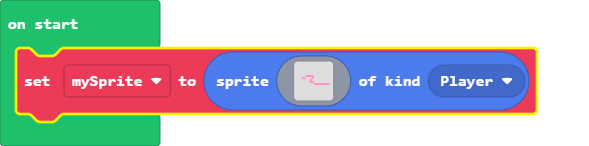
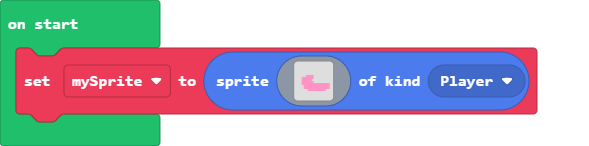
lol

Changed region(s): [[0.0, 0.3014, 0.9168, 0.8493], [0.489, 0.5205, 0.5806, 0.6301], [0.0306, 0.7671, 0.0611, 0.8219]]

diff --git a/main.ts b/main.ts
@@ -5,13 +5,13 @@ let mySprite = sprites.create(img`
     . . . . . . . . . . . . . . . . 
     . . . . . . . . . . . . . . . . 
     . . . . 3 3 3 3 . . . . . . . . 
-    . . 3 3 . . . 3 . . . . . . . . 
-    . . . . . . 3 . . . . . . . . . 
-    . . . . . . 3 3 . . . . . . . . 
-    . . . . . . . . 3 3 3 3 3 3 3 3 
-    . . . . . . . . . . . . . . . . 
-    . . . . . . . . . . . . . . . . 
-    . . . . . . . . . . . . . . . . 
+    . . 3 3 3 3 3 3 . . . . . . . . 
+    . . 3 3 3 3 3 . . . . . . . . . 
+    . . 3 3 3 3 3 3 . . . . . . . . 
+    . . 3 3 3 3 3 3 3 3 3 3 3 3 3 3 
+    . . . 3 3 3 3 3 3 3 3 3 3 3 3 3 
+    . . . 3 3 3 3 3 3 3 3 3 3 3 3 3 
+    . . . . . 3 3 3 3 3 3 3 3 3 . . 
     . . . . . . . . . . . . . . . . 
     . . . . . . . . . . . . . . . . 
     . . . . . . . . . . . . . . . . 
